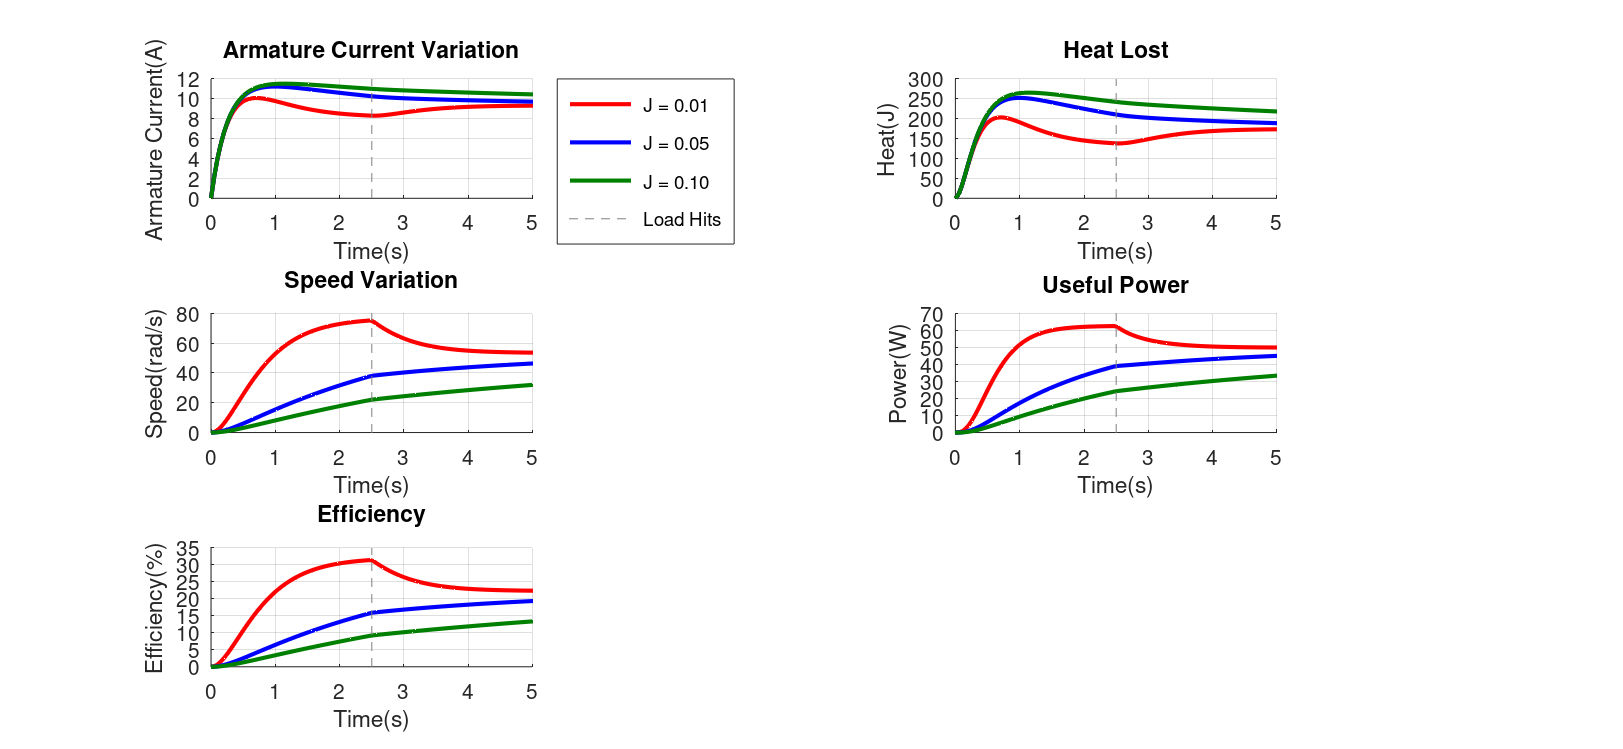
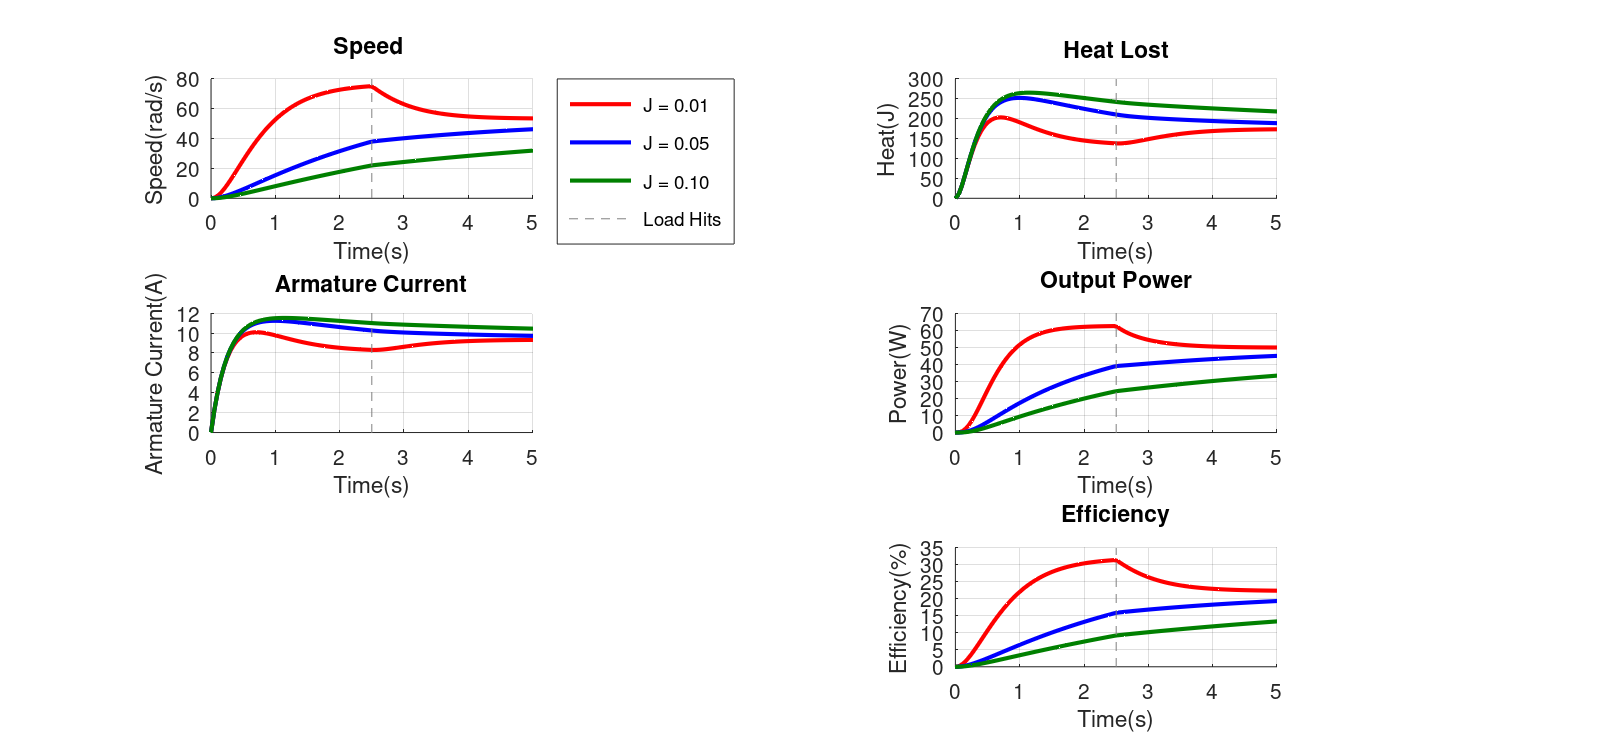
Add simulation files, plots

diff --git a/DC_Motor_Efficiency.m b/DC_Motor_Efficiency.m
@@ -1,14 +1,31 @@
+%% DC Motor PID Control Simulation
+% Analyzes the effect of varying Moment of Inertia (J) on system stability,
+% power consumption, and efficiency under a step load change.
+
+
 global V Kb Kt R L B J;
-V = 24; R = 2.0; L = 0.5; Kb = 0.1; Kt = 0.1; B = 0.01;
+
+% ---Physical Parameters---
+
+V = 24; %Input Voltage
+R = 2.0; %resistance
+L = 0.5; %inductance
+Kb = 0.1; %back EMF constant
+Kt = 0.1;  %Torque constant
+B = 0.01; %friction coefficient
 
 function xdot = motor_system(x, t)
   global V Kb Kt R L B J;
+
+  %Load Torque variation
 
   if t < 2.5
     TL = 0.05;
   else
     TL = 0.4;
   end
+
+  % Main Electrical and Mechanical Equations
 
   di_dt = (V - x(1).*R - Kb.*x(2))/L;
 
@@ -17,6 +34,8 @@ function xdot = motor_system(x, t)
   xdot = [di_dt; dw_dt];
 
 endfunction
+
+% Defining different cases of inertia
 
 J_list = [0.01, 0.05, 0.1];
 color = {'r', 'b', [0, 0.5, 0]};
@@ -27,25 +46,25 @@ for i = 1:3
   t = linspace(0, 5, 100);
   y = lsode("motor_system", [0;0] , t)
 
-  % Calculate Power after the solver is done
+
     current_data = y(:,1);
     speed_data = y(:,2);
 
-    % Power Loss (Heat) = i^2 * R
+    % Power Loss
     heat_loss = (current_data.^2) * R;
 
-    % Useful Mechanical Power = Torque * Speed
-    % Torque is Kt * current
+    % Useful Mechanical Power
     useful_power = (Kt * current_data) .* speed_data;
 
     total_input_power = V .* current_data;
 
     efficiency = (useful_power ./ max(0.1, total_input_power)) .* 100;
 
-  subplot(3, 2, 1); hold on;
-  plot(t, y(:,1), 'Color', color{i}, 'LineWidth', 2);
 
   subplot(3, 2, 3); hold on;
+  plot(t, y(:,1), 'Color', color{i}, 'LineWidth', 2);
+
+  subplot(3, 2, 1); hold on;
   plot(t, y(:,2), 'Color', color{i}, 'LineWidth', 2);
 
   subplot(3, 2, 2); hold on;
@@ -54,24 +73,24 @@ for i = 1:3
   subplot(3, 2, 4); hold on;
   plot(t, useful_power, 'Color', color{i}, 'LineWidth', 2);
 
-  subplot(3, 2, 5); hold on;
+  subplot(3, 2, 6); hold on;
   plot(t, efficiency, 'Color', color{i}, 'LineWidth', 2);
 
 
 end
 
-subplot(3,2,1); title("Armature Current Variation"); grid on; xlabel("Time(s)"); ylabel("Armature Current(A)");
+subplot(3,2,3); title("Armature Current"); grid on; xlabel("Time(s)"); ylabel("Armature Current(A)");
 
-subplot(3,2,3); title("Speed Variation"); grid on; xlabel("Time(s)"); ylabel("Speed(rad/s)");
+subplot(3,2,1); title("Speed "); grid on; xlabel("Time(s)"); ylabel("Speed(rad/s)");
 
 subplot(3,2,2); title("Heat Lost"); grid on; xlabel("Time(s)"); ylabel("Heat(J)");
 
-subplot(3,2,4); title("Useful Power"); grid on; xlabel("Time(s)"); ylabel("Power(W)");
+subplot(3,2,4); title("Output Power"); grid on; xlabel("Time(s)"); ylabel("Power(W)");
 
-subplot(3,2,5); title("Efficiency"); grid on; xlabel("Time(s)"); ylabel("Efficiency(%)");
+subplot(3,2,6); title("Efficiency"); grid on; xlabel("Time(s)"); ylabel("Efficiency(%)");
 
 subplot(3,2,1); line([2.5 2.5], ylim, 'Color', [0.5,0.5,0.5] , 'LineWidth', 0.5, 'LineStyle', '--'); legend('J = 0.01', 'J = 0.05', 'J = 0.10', 'Load Hits', 'location', 'northeastoutside');
 subplot(3,2,2); line([2.5 2.5], ylim, 'Color', [0.5,0.5,0.5], 'LineWidth', 0.5, 'LineStyle', '--');
 subplot(3,2,3); line([2.5 2.5], ylim, 'Color', [0.5,0.5,0.5], 'LineWidth', 0.5, 'LineStyle', '--');
 subplot(3,2,4); line([2.5 2.5], ylim, 'Color', [0.5,0.5,0.5], 'LineWidth', 0.5, 'LineStyle', '--');
-subplot(3,2,5); line([2.5 2.5], ylim, 'Color', [0.5,0.5,0.5], 'LineWidth', 0.5, 'LineStyle', '--');
+subplot(3,2,6); line([2.5 2.5], ylim, 'Color', [0.5,0.5,0.5], 'LineWidth', 0.5, 'LineStyle', '--');

diff --git a/DC_Motor_with_PID.m b/DC_Motor_with_PID.m
@@ -1,21 +1,44 @@
+%% DC Motor PID Control Simulation
+% Analyzes the effect of varying Moment of Inertia (J) on system stability,
+% power consumption, and efficiency under a step load change.
+
 global R L Kb Kt w_ref J B Kp Ki Kd;
-R = 2.0; L = 0.5; Kb = 0.1; Kt = 0.1; B = 0.01; w_ref = 20;
-Kp = 5.0; Ki = 2.0; Kd = 0.5;
+
+% ---Physical Parameters---
+
+R = 2.0;      % resistance
+L = 0.5;      %inductance
+Kb = 0.1;     %back EMF constant
+Kt = 0.1;     %Torque constant
+B = 0.01;     %friction coefficient
+w_ref = 20;   %desired speed
+
+% ---PID Gain Parameters---
+Kp = 5.0;
+Ki = 2.0;
+Kd = 0.5;
+
+% Defining different cases of inertia
 
 J_list = [0.01, 0.05, 0.10];
 colors = {'r', 'b', [0, 0.5, 0]};
 
+% Main motor system function
+
 function xdot = motor_system(x, t)
   global R L Kb Kt w_ref J B Kp Ki Kd;
 
-  TL = (t<2.5) * 0.05 + (t>=2.5) * 0.4;
+  TL = (t<2.5) * 0.05 + (t>=2.5) * 0.4;     %Load Torque variation
 
-  error = w_ref - x(2);
+  error = w_ref - x(2);                     %difference between desired speed and speed of rotor
 
   dw_dt_est = (Kt .* x(1) - B .* x(2) - TL)/J;
 
+% PID control equations
   V_raw = (Kp .* error) + (Ki .* x(3)) + (Kd .* -dw_dt_est);
   V_out = max(min(V_raw, 24), -24);
+
+% Main Electrical and Mechanical Equations
 
   di_dt = (V_out - Kb .* x(2) - x(1) .* R)/L;
   dw_dt = (Kt .* x(1) - B .* x(2) - TL)/J;
@@ -25,12 +48,16 @@ function xdot = motor_system(x, t)
 
 endfunction
 
+%Simulation and Graph Plotting
+
 figure(1); clf;
 
 for i = 1:3
   global J;
   J = J_list(i);
   color = colors{i};
+
+  %Solving equations using lsode
 
   t = linspace(0, 5, 2000);
   y = lsode("motor_system", [0;0;0], t);
@@ -44,11 +71,14 @@ for i = 1:3
   V_raw = Kp*(w_ref - w_data) + Ki*e_data + Kd*(-dw_dt_vec);
   V_plot = max(min(V_raw, 24), -24);
 
+  % ---Energy Parameters calculations---
 
   heat_loss = ((i_data) .^ 2) .* R;
   power_output = (Kt .* w_data) .* i_data;
   power_input = max(abs(V_plot .* i_data), 5);
   eff = min(max((power_output ./ power_input) .* 100, 0), 100);
+
+  % ---Plotting---
 
   subplot(3,2,3); hold on; plot(t,i_data,'Color',color,'LineWidth',2); title("Armature current"); ylabel("Current(A)"); xlabel("Time(s)"); grid on;
   subplot(3,2,1); hold on; plot(t,w_data,'Color',color,'LineWidth',2); title("Speed"); ylabel("Speed(rad/s)"); xlabel("Time(s)"); grid on; ylim([0 30]);
